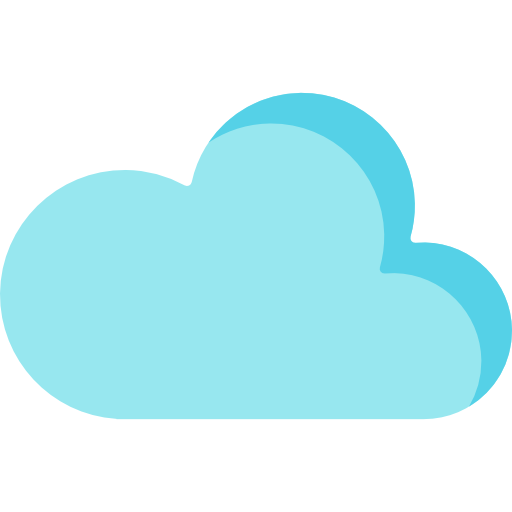
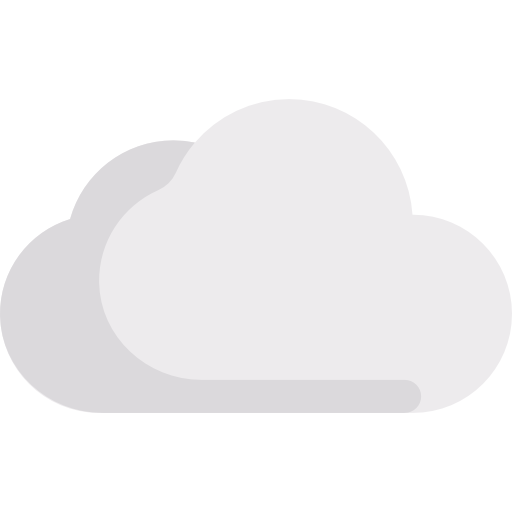
1.1

diff --git a/src/App.css b/src/App.css
@@ -1,5 +1,8 @@
 /* CSS */
+
+
 /* NAVBAR */
+
 .navbar {
     background: linear-gradient(90deg, rgb(28, 27, 27) 0%, rgb(26, 23, 23) 100%);
     height: 60px;
@@ -7,100 +10,121 @@
     justify-content: center;
     align-items: center;
     font-size: 1.2rem;
-  }
-  
-  .navbar-logo {
+    flex-direction: row;
+    justify-content: space-around;
+}
+
+.nombre {
+    font-size: 16px;
+}
+
+.navbar-logo {
     color: #fff;
     justify-self: start;
     margin-left: 20px;
     cursor: pointer;
     text-decoration: none;
     font-size: 2rem;
-  }
-  
-  .menu-icon {
+}
+
+.menu-icon {
     display: none;
-  }
-  
-  @media screen and (max-width: 960px) {
+}
+
+@media screen and (max-width: 960px) {
     .NavbarItems {
-      position: relative;
+        position: relative;
     }
-  
-  }
+}
 
-  /* IMG */
+.p__for {
+    display: flex;
+    flex-direction: column-reverse;
+    justify-content: center;
+    color: #4e4e4e;
+}
 
-  .container{
+.title__p {
+    font-size: 22px;
+}
+
+
+/* IMG */
+
+.container {
     display: flex;
 }
+
 .wrapper {
     display: grid;
     grid-template-columns: repeat(auto-fit, minmax(300px, 1fr));
-    width: 95%;
+    width: 90%;
     margin: auto;
     grid-gap: 10px;
     padding: 10px;
 }
 
-.img__area > img{
+.img__area>img {
     width: 100%;
+    /* height:100%; */
     border-radius: 5px;
 }
 
-img{
+img {
     transition: transform 0.5s;
 }
 
 @media only screen and (max-width: 768px) {
-    .img__area{
-      display: flex;
-      flex-direction: column;
+    .img__area {
+        display: flex;
+        flex-direction: column;
     }
-  }
+}
 
-  .output{
+.output {
     height: 60px;
     font-size: 0.8rem;
-  }
-  .error{
-    color: var(--error);
-  }
+}
 
-.progress-bar{
+.error {
+    color: var(--error);
+}
+
+.progress-bar {
     height: 5px;
     background: var(--primary);
     margin-top: 20px;
-  }
-  
-  .backdrop{
+}
+
+.backdrop {
     position: fixed;
     top: 0;
     left: 0;
     width: 100%;
     z-index: 1000;
     height: 100%;
-    background: rgba(0,0,0,0.5);
+    background: rgba(0, 0, 0, 0.5);
     display: flex;
     justify-content: center;
     align-items: center;
-  }
-  .backdrop img{
+}
+
+.backdrop img {
     display: block;
     max-width: 75%;
     max-height: 75%;
     margin: 100px auto;
-    box-shadow: 3px 5px 7px rgba(0,0,0,0.5);
+    box-shadow: 3px 5px 7px rgba(0, 0, 0, 0.5);
     border-radius: 5px;
-  }
-  
-  @media only screen and (max-width: 768px) {
+}
+
+@media only screen and (max-width: 768px) {
     .backdrop img {
-      display: block;
-      max-width: 90%;
-      max-height: 75%;
-      margin: 100px auto;
-      box-shadow: 3px 5px 7px rgba(0,0,0,0.5);
-      border-radius: 5px;
+        display: block;
+        max-width: 90%;
+        max-height: 75%;
+        margin: 100px auto;
+        box-shadow: 3px 5px 7px rgba(0, 0, 0, 0.5);
+        border-radius: 5px;
     }
-  }
+}

diff --git a/public/index.html b/public/index.html
@@ -6,40 +6,20 @@
   <link rel="icon" href="%PUBLIC_URL%/nube.png" />
   <meta name="viewport" content="width=device-width, initial-scale=1" />
   <meta name="theme-color" content="#000000" />
-  <meta name="description" content="Web site created using create-react-app" />
+  <meta name="description" content="FIREGRAM - Jordy Vega" />
   <link rel="stylesheet" href="https://use.fontawesome.com/releases/v5.13.1/css/all.css"
     integrity="sha384-xxzQGERXS00kBmZW/6qxqJPyxW3UR0BPsL4c8ILaIWXva5kFi7TxkIIaMiKtqV1Q" crossorigin="anonymous" />
-  <link rel="apple-touch-icon" href="%PUBLIC_URL%/logo192.png" />
-  <!--
-      manifest.json provides metadata used when your web app is installed on a
-      user's mobile device or desktop. See https://developers.google.com/web/fundamentals/web-app-manifest/
-    -->
-  <link rel="manifest" href="%PUBLIC_URL%/manifest.json" />
-  <!--
-      Notice the use of %PUBLIC_URL% in the tags above.
-      It will be replaced with the URL of the `public` folder during the build.
-      Only files inside the `public` folder can be referenced from the HTML.
+  <link rel="apple-touch-icon" href="%PUBLIC_URL%/nube.png" />
 
-      Unlike "/favicon.ico" or "favicon.ico", "%PUBLIC_URL%/favicon.ico" will
-      work correctly both with client-side routing and a non-root public URL.
-      Learn how to configure a non-root public URL by running `npm run build`.
-    -->
+  <link rel="manifest" href="%PUBLIC_URL%/manifest.json" />
+  
   <title>FIREGRAM</title>
 </head>
 
 <body>
   <noscript>You need to enable JavaScript to run this app.</noscript>
   <div id="root"></div>
-  <!--
-      This HTML file is a template.
-      If you open it directly in the browser, you will see an empty page.
-
-      You can add webfonts, meta tags, or analytics to this file.
-      The build step will place the bundled scripts into the <body> tag.
-
-      To begin the development, run `npm start` or `yarn start`.
-      To create a production bundle, use `npm run build` or `yarn build`.
-    -->
+  
 </body>
 
 </html>

diff --git a/src/components/Navbar.js b/src/components/Navbar.js
@@ -4,10 +4,13 @@ function Navbar() {
   return (
     <>
       <nav className='navbar'>
-        <div>FIREGRAM</div>
-        <div>
-          <i className='fab fa-firstdraft' />
+        <div>FIREGRAM
+        <i className='fab fa-firstdraft' />
         </div>
+        <div className="nombre__navbar">
+        <p className="nombre">Jordy Vega | 2021</p>
+        </div>
+       
       </nav>
     </>
   );

diff --git a/src/components/Title.js b/src/components/Title.js
@@ -1,10 +1,9 @@
-import React from 'react'
+import React from 'react';
 
 const Title = () => {
     return (
         <div className="title">
-        <h2>Upload Image</h2>
-        <p>Upload images to FireGram</p>
+        <p className="title__p">Upload images to FireGram</p>
       </div>
     )
 }
